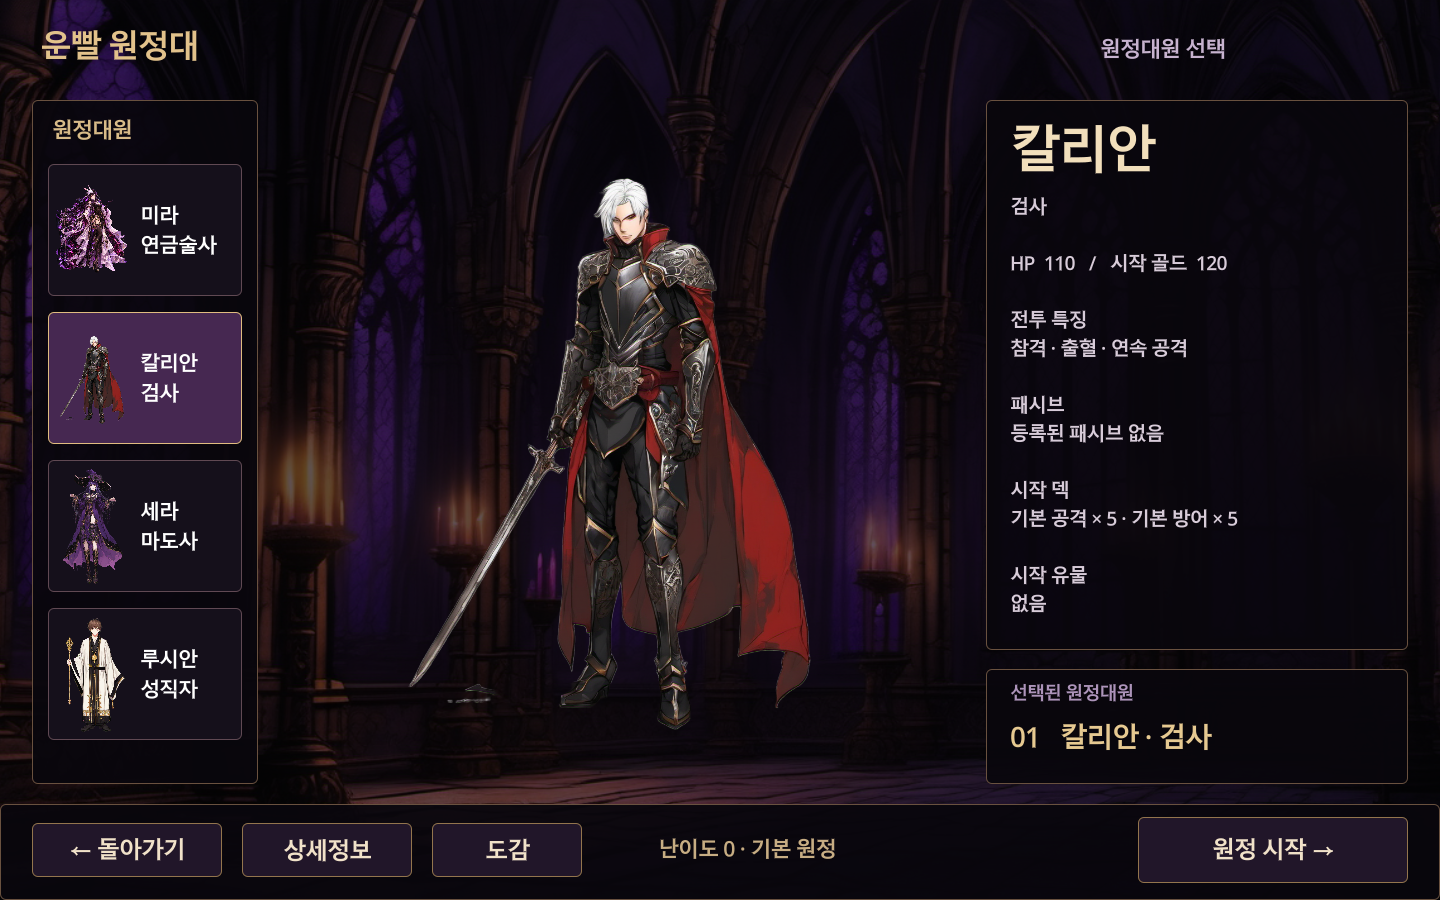
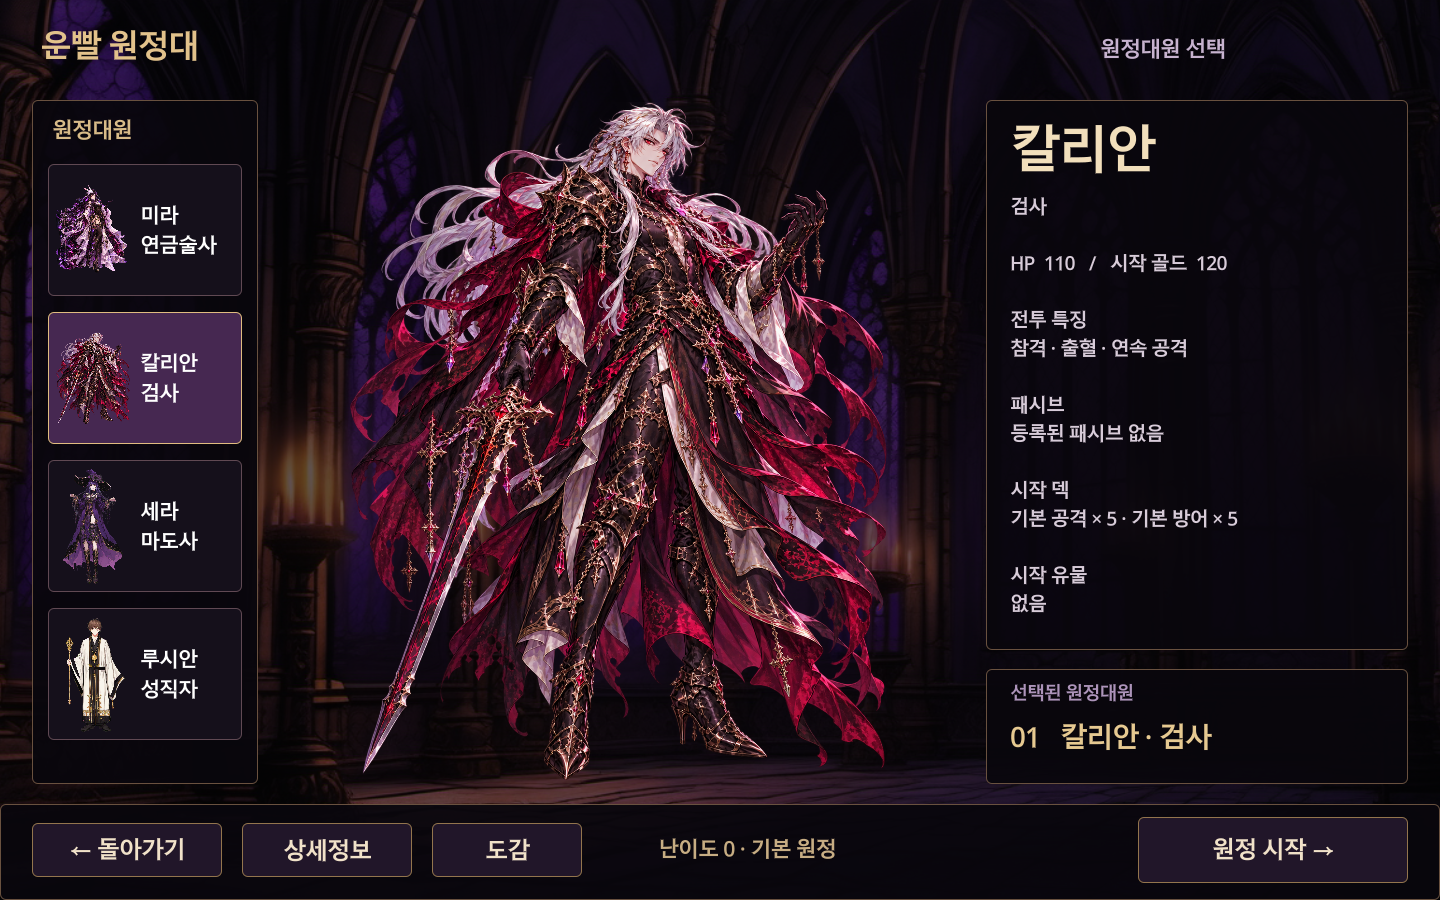
Replace Kalian art with built-in generation using Mira style reference

Changed region(s): [[0.2188, 0.0933, 0.625, 0.8711], [0.0312, 0.3733, 0.0938, 0.4667]]

diff --git a/HANDOFF.md b/HANDOFF.md
@@ -93,3 +93,7 @@
 사용자는 새 폴더 안내만으로 끝내지 말고 현재 사용하는 프로젝트 파일을 직접 합치라고 지시했다. Godot가 실제 열고 있던 바탕화면 `운빨원정대_Godot4_시작프로젝트`를 확인하고, 변경 전 백업 후 지도·선택 화면·원화·도구·문서 134개 파일을 반영했다. 로컬 플러그인과 기존 UID는 보존했다. 이 지시는 앞의 "바탕화면 프로젝트에 반영하지 않는다"는 작업 방침을 대체한다.
 
 해당 바탕화면 경로에서 MAP_GRAPH_QA seeds=200 failures=0, MAP_UI_QA failures=0을 확인했다. 현재 에디터에서도 재실행해 새 지도 진입을 확인했다. GitHub 업로드용 gametest와 바탕화면 사용 폴더는 이번에 수동 병합한 상태이며 상시 자동 동기화는 아니다. 후속 작업자는 사용 중인 폴더의 변경을 반드시 비교·반영한 뒤 저장소를 업로드해야 한다. 사용자가 별도로 파일을 옮기도록 떠넘기지 않는다.
+
+## 2026-10-01 내장 이미지 생성으로 전환
+사용자가 ComfyUI 원화 품질을 거부해 내장 image_gen으로 칼리안 선택 원화를 새로 제작했다. 기존 미라 full_02를 그림체 참고로 사용. 파일 kalian_character_select_builtin_v1.png를 현재 바탕화면 프로젝트와 Git 프로젝트에 함께 적용했다. 이전 원화는 보존한다. 다른 캐릭터의 내장 생성 재제작은 아직 남아 있다.
+`n실제 바탕화면 프로젝트에서 HOME_MERGE_QA characters=4 failures=0. 칼리안 투명 표시와 도감/원정 진입 확인. 스크립트 오류 없음.

diff --git a/AGENTS.md b/AGENTS.md
@@ -288,3 +288,5 @@ Godot AI MCP가 연결되어 있으면:
 - docs/HOME_WORK_HISTORY.md는 집의 과거 작업 기록이다. 과거의 "기본 설정만 진행", "배경 제거 모델 미설치" 내용은 최신 ai/SETUP.md에 의해 대체된다.
 - 현재 작업 기준은 이 Git 저장소다. 기존 바탕화면 프로젝트를 덮어쓰거나 자동 동기화하지 않는다.
 - 최신 사용자 지시(2026-10-01): 바탕화면에서 실제 사용하는 프로젝트에도 최신 파일을 직접 병합하고 그 경로로 실행 검증한다. 앞의 기존 폴더 비반영 방침은 대체된다. 백업·차이 비교로 양쪽 변경을 보존하며 파일 이동을 사용자에게 맡기지 않는다.
+
+- 2026-10-01 최신 사용자 지시: ComfyUI 결과 품질을 거부하고 이 채팅의 내장 이미지 생성 사용을 요청했다. 미라 원화를 그림체 기준으로 내장 생성기를 사용한다. 이전 ComfyUI 전용 규칙보다 우선한다.
